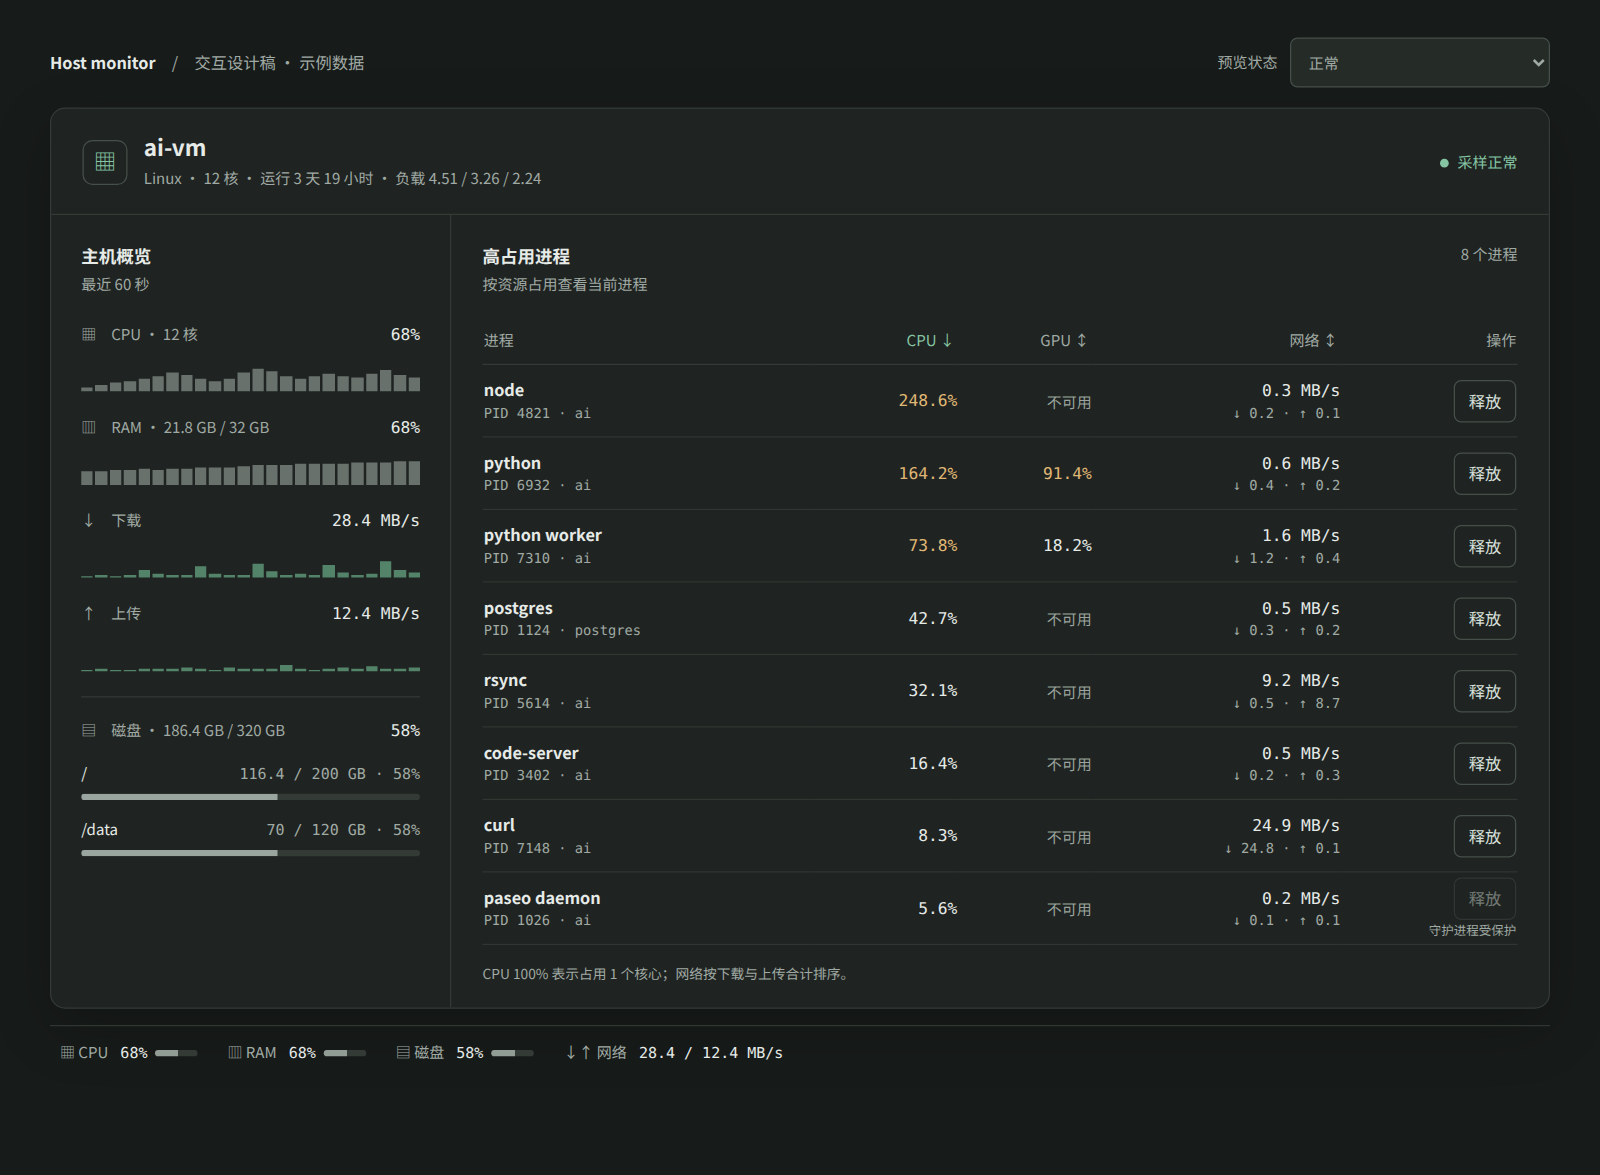
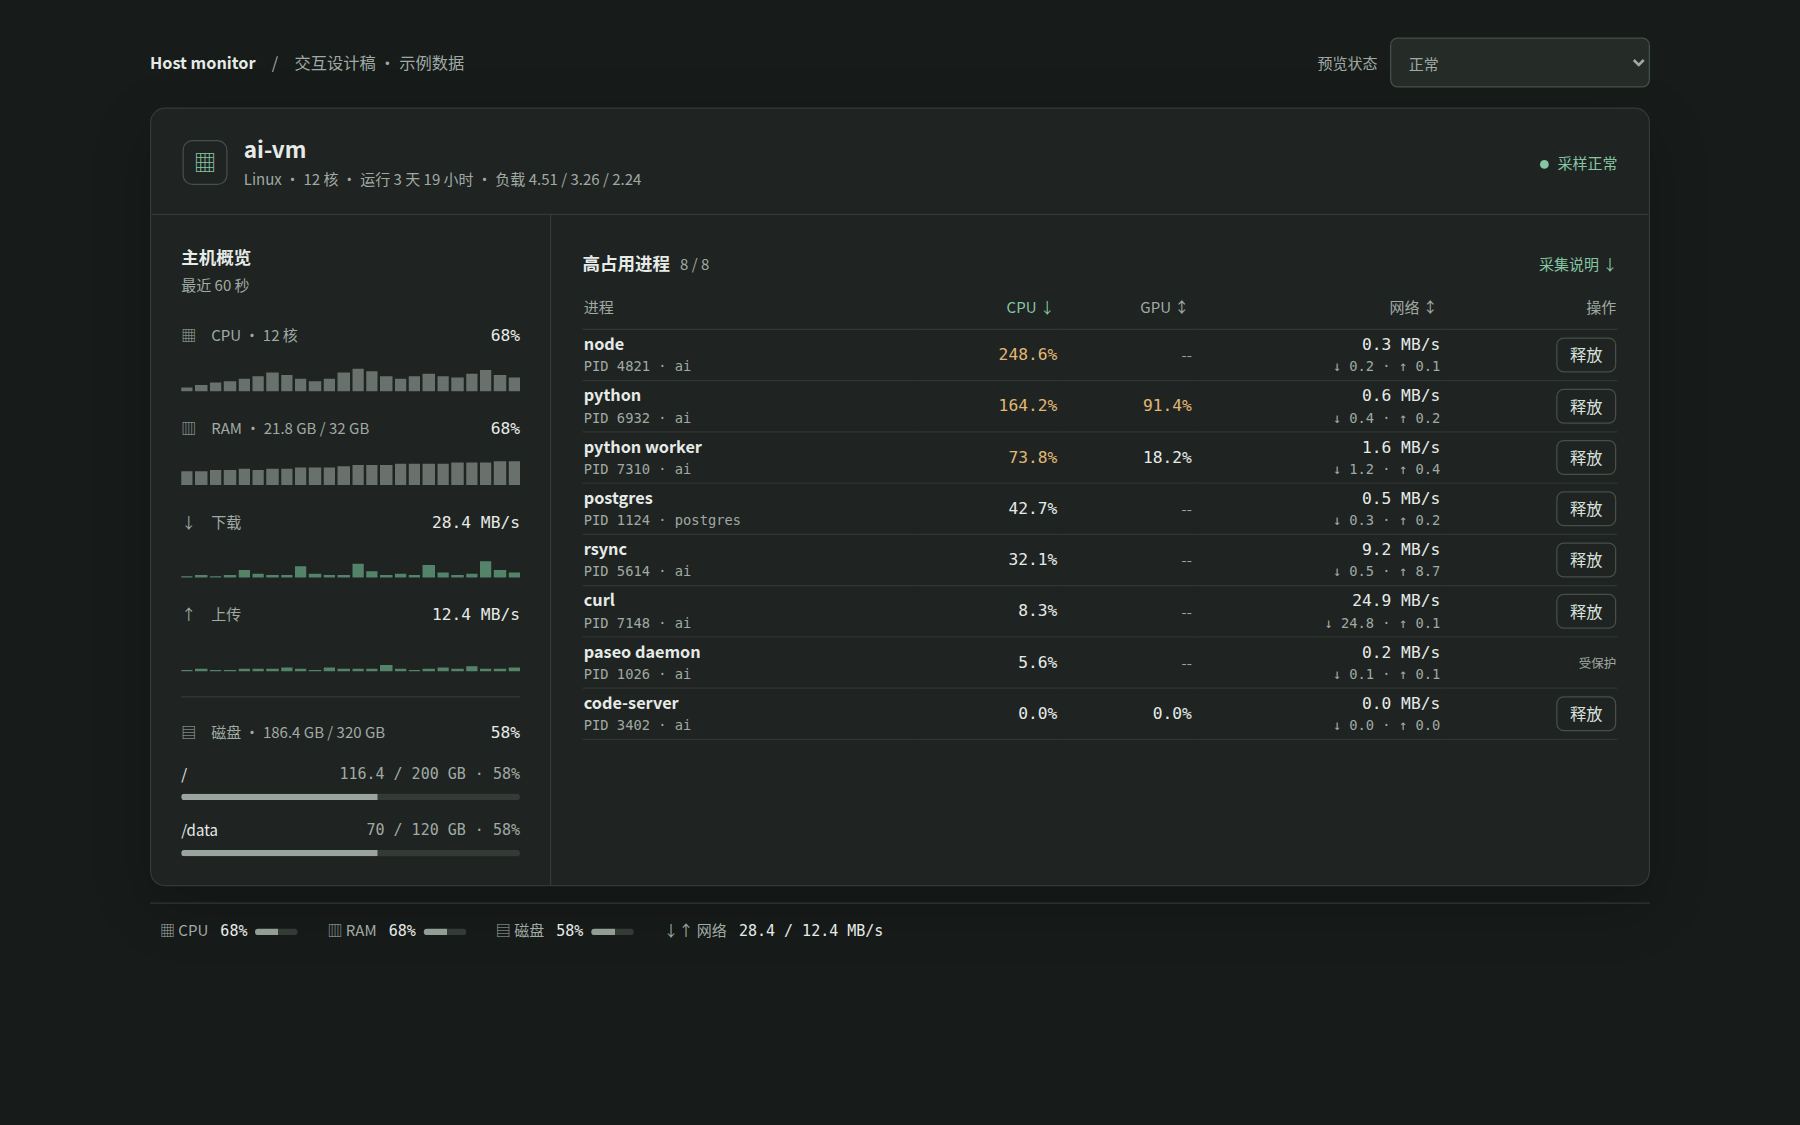
feat(design): 精简进程监控交互稿

diff --git a/designs/host-monitor/index.html b/designs/host-monitor/index.html
@@ -210,13 +210,14 @@ select{
 }
 .process-heading{
   display:flex;
-  align-items:start;
+  align-items:center;
   justify-content:space-between;
   gap:10px
 }
-.process-heading .section-caption{
-  margin-bottom:18px
-}
+.process-heading > div{display:flex;align-items:center;gap:8px}
+.details-toggle{border:0;background:none;color:var(--green);padding:6px 0;min-height:32px;font-size:12px}
+.details{padding:6px 0 10px;font-size:12px;color:var(--muted)}
+.details p{margin:3px 0}
 .count{
   font-size:12px;
   color:var(--muted);
@@ -228,7 +229,7 @@ select{
   table-layout:fixed
 }
 .table th{
-  height:37px;
+  height:32px;
   border-bottom:1px solid var(--line);
   color:var(--muted);
   font-size:12px;
@@ -266,7 +267,7 @@ select{
 .table td{
   text-align:right;
   border-bottom:1px solid #303632;
-  height:58px;
+  height:40px;
   font-size:13px
 }
 .name{
@@ -300,8 +301,8 @@ select{
   background:transparent;
   color:#d9e1dc;
   border-radius:6px;
-  padding:6px 11px;
-  min-height:34px
+  padding:3px 10px;
+  min-height:28px
 }
 .release:hover:not(:disabled){
   border-color:#bc7973;
@@ -544,7 +545,7 @@ dialog::backdrop{
   .table tr{
     position:relative;
     border-bottom:1px solid var(--line);
-    padding:14px 0
+    padding:4px 0
   }
   .table td{
     height:auto;
@@ -553,7 +554,7 @@ dialog::backdrop{
   }
   .table td:first-child{
     padding-right:90px;
-    margin-bottom:12px
+    margin-bottom:3px
   }
   .table td.resource{
     display:inline-block;
@@ -563,10 +564,10 @@ dialog::backdrop{
   }
   .table td.resource:before{
     content:attr(data-label);
-    display:block;
+    display:inline;
     font-size:11px;
     color:var(--muted);
-    margin-bottom:3px
+    margin-right:4px
   }
   .table td.action{
     position:absolute;
@@ -574,6 +575,7 @@ dialog::backdrop{
     top:10px;
     text-align:right!important
   }
+  .details-toggle{min-height:44px}
   .release{
     min-height:44px
   }
@@ -597,7 +599,7 @@ dialog::backdrop{
 }
 </style></head><body>
 <div class="preview"><div class="preview-label"><strong>Host monitor</strong>　/　交互设计稿 · 示例数据</div><label class="preview-control">预览状态 <select id="scenario"><option value="normal">正常</option><option value="gpu">GPU 未检测到 / 不支持采集</option><option value="network">网络采集权限不足</option><option value="loading">加载中</option><option value="error">采集失败</option><option value="empty">空列表</option><option value="permission">释放权限不足</option><option value="exited">进程已退出</option><option value="failed">结束失败</option></select></label></div>
-<main class="shell"><header class="host-head"><div class="host-title"><div class="host-icon" aria-hidden="true">▦</div><div><h1>ai-vm</h1><div class="sub">Linux · 12 核 · 运行 3 天 19 小时 · 负载 4.51 / 3.26 / 2.24</div></div></div><div class="status"><span class="dot"></span>采样正常</div></header><div class="tabs" role="tablist" aria-label="主机监控视图"><button role="tab" aria-selected="true" data-tab="overview">主机概览</button><button role="tab" aria-selected="false" data-tab="process">进程</button></div><div class="columns"><section class="overview" id="overview"><h2 class="section-title">主机概览</h2><p class="section-caption">最近 60 秒</p><div id="metrics"></div><div class="disk"><div class="metric-head"><span>▤　磁盘 · 186.4 GB / 320 GB</span><strong class="mono">58%</strong></div><div class="disk-row"><div class="disk-label"><span>/</span><span class="mono">116.4 / 200 GB · 58%</span></div><div class="meter"><i style="width:58%"></i></div></div><div class="disk-row"><div class="disk-label"><span>/data</span><span class="mono">70 / 120 GB · 58%</span></div><div class="meter"><i style="width:58%"></i></div></div></div></section><section class="process mobile-hidden" id="process"><div class="process-heading"><div><h2 class="section-title">高占用进程</h2><p class="section-caption">按资源占用查看当前进程</p></div><span class="count" id="count"></span></div><div id="availability" class="availability" aria-live="polite"></div><div class="mobile-sort" id="mobile-sort"><span>排序</span></div><div id="content"></div><p class="note">CPU 100% 表示占用 1 个核心；网络按下载与上传合计排序。</p><div id="toast" aria-live="polite"></div></section></div></main>
+<main class="shell"><header class="host-head"><div class="host-title"><div class="host-icon" aria-hidden="true">▦</div><div><h1>ai-vm</h1><div class="sub">Linux · 12 核 · 运行 3 天 19 小时 · 负载 4.51 / 3.26 / 2.24</div></div></div><div class="status"><span class="dot"></span>采样正常</div></header><div class="tabs" role="tablist" aria-label="主机监控视图"><button role="tab" aria-selected="true" data-tab="overview">主机概览</button><button role="tab" aria-selected="false" data-tab="process">进程</button></div><div class="columns"><section class="overview" id="overview"><h2 class="section-title">主机概览</h2><p class="section-caption">最近 60 秒</p><div id="metrics"></div><div class="disk"><div class="metric-head"><span>▤　磁盘 · 186.4 GB / 320 GB</span><strong class="mono">58%</strong></div><div class="disk-row"><div class="disk-label"><span>/</span><span class="mono">116.4 / 200 GB · 58%</span></div><div class="meter"><i style="width:58%"></i></div></div><div class="disk-row"><div class="disk-label"><span>/data</span><span class="mono">70 / 120 GB · 58%</span></div><div class="meter"><i style="width:58%"></i></div></div></div></section><section class="process mobile-hidden" id="process"><div class="process-heading"><div><h2 class="section-title">高占用进程</h2><span class="count" id="count"></span></div><button class="details-toggle" id="details-toggle" aria-expanded="false" aria-controls="collection-details">采集说明 ↓</button></div><div class="details" id="collection-details" hidden><p>-- 表示数据不可用。CPU 100% 表示占用 1 个核心；网络为可归属的可见 TCP 持续连接上下行总速率，不含 UDP 和短连接。</p><div id="availability" class="availability" aria-live="polite"></div><p id="protection-details"></p></div><div class="mobile-sort" id="mobile-sort"><span>排序</span></div><div id="content"></div><div id="toast" aria-live="polite"></div></section></div></main>
 <div class="anchor" aria-label="主机状态摘要"><span>▦ CPU <b class="mono">68%</b><i class="tiny-meter"></i></span><span>▥ RAM <b class="mono">68%</b><i class="tiny-meter"></i></span><span>▤ 磁盘 <b class="mono">58%</b><i class="tiny-meter"></i></span><span>↓↑ 网络 <b class="mono">28.4 / 12.4 MB/s</b></span></div>
 <dialog id="confirm" aria-labelledby="dialog-title"><div class="dialog-body"><h2 id="dialog-title">结束进程并释放资源？</h2><p class="warning">将中断该进程正在执行的任务，未保存的数据可能丢失。</p><div class="detail" id="details"></div><p class="dialog-error" id="dialog-error" role="alert" hidden></p></div><div class="dialog-actions"><button class="cancel" id="cancel" autofocus>取消</button><button class="danger" id="submit">结束进程</button></div></dialog>
 <script>
@@ -608,7 +610,7 @@ const initial=[
 {name:'rsync',pid:5614,user:'ai',cmd:'rsync -av /data/models/ backup:/models/',cpu:32.1,gpu:null,down:.5,up:8.7},
 {name:'postgres',pid:1124,user:'postgres',cmd:'/usr/lib/postgresql/16/bin/postgres -D /var/lib/postgresql/16/main',cpu:42.7,gpu:null,down:.3,up:.2},
 {name:'paseo daemon',pid:1026,user:'ai',cmd:'paseo daemon start',cpu:5.6,gpu:null,down:.1,up:.1,protected:true},
-{name:'code-server',pid:3402,user:'ai',cmd:'code-server --bind-addr 127.0.0.1:8080 /workspace',cpu:16.4,gpu:null,down:.2,up:.3},
+{name:'code-server',pid:3402,user:'ai',cmd:'code-server --bind-addr 127.0.0.1:8080 /workspace',cpu:0,gpu:0,down:0,up:0},
 {name:'python worker',pid:7310,user:'ai',cmd:'python worker.py --queue inference',cpu:73.8,gpu:18.2,down:1.2,up:.4}];
 let processes=initial.map(p=>({...p})),sortKey='cpu',direction='desc',selected=null,opener=null,pending=false;
 const $=id=>document.getElementById(id),scenario=$('scenario');
@@ -647,22 +649,24 @@ function sortButton(key,label){
   return `<button class="sort ${sortKey===key?'active':''}" data-sort="${key}" ${unavailable?'disabled title="该资源未采集"':''}>${label} ${sortKey===key?(direction==='desc'?'↓':'↑'):'↕'}</button>`}
 
 function format(v,suffix){
-  return v==null?'<span class="na">不可用</span>':`<span class="mono value ${v>=70?'high':''}">${v.toFixed(1)}${suffix}</span>`}
+  return v==null?'<span class="na">--</span>':`<span class="mono value ${v>=70?'high':''}">${v.toFixed(1)}${suffix}</span>`}
 
 function render(){
   const state=scenario.value,content=$('content'),mobile=$('mobile-sort');
   $('availability').textContent=state==='gpu'?'GPU 未检测到或不支持进程采集。':state==='network'?'网络进程采集权限不足。':'';
   mobile.innerHTML='<span>排序</span>'+[['cpu','CPU'],['gpu','GPU'],['network','网络']].map(([k,l])=>sortButton(k,l)).join('');
-  $('count').textContent=(state==='empty'?0:processes.length)+' 个进程';
+  $('count').textContent=(state==='empty'?0:processes.length)+' / '+(state==='empty'?0:processes.length);
+  $('protection-details').textContent=processes.filter(p=>p.protected).map(p=>`PID ${p.pid} · ${p.name}：守护进程受保护`).join('；');
 if(state==='loading'||state==='error'||state==='empty'){content.innerHTML=state==='loading'?'<div class="message"><strong>正在采集进程数据</strong><span>请稍候</span></div>':state==='error'?'<div class="message"><strong>进程采集失败</strong><span>暂时无法获取进程数据</span><button class="retry" id="retry">重试</button></div>':'<div class="message"><strong>暂无进程数据</strong><span>当前没有可显示的进程</span></div>';
   if($('retry'))$('retry').onclick=()=>{scenario.value='normal';
   render()};
   return}
 const rows=sorted(processes,sortKey,direction).map(p=>{
   const net=value(p,'network');
-  return `<tr><td><div class="name">${esc(p.name)}</div><div class="identity mono">PID ${p.pid} · ${esc(p.user)}</div></td><td class="resource" data-label="CPU">${format(value(p,'cpu'),'%')}</td><td class="resource" data-label="GPU">${format(value(p,'gpu'),'%')}</td><td class="resource" data-label="网络">${format(net,' MB/s')}${net==null?'':`<div class="network-detail mono">↓ ${p.down.toFixed(1)} · ↑ ${p.up.toFixed(1)}</div>`}</td><td class="action"><button class="release" data-pid="${p.pid}" ${p.protected?'disabled aria-label="守护进程受保护"':''}>释放</button>${p.protected?'<span class="protected">守护进程受保护</span>':''}</td></tr>`}).join('');
+  return `<tr><td><div class="name">${esc(p.name)}</div><div class="identity mono">PID ${p.pid} · ${esc(p.user)}</div></td><td class="resource" data-label="CPU">${format(value(p,'cpu'),'%')}</td><td class="resource" data-label="GPU">${format(value(p,'gpu'),'%')}</td><td class="resource" data-label="网络">${format(net,' MB/s')}${net==null?'':`<div class="network-detail mono">↓ ${p.down.toFixed(1)} · ↑ ${p.up.toFixed(1)}</div>`}</td><td class="action">${p.protected?'<span class="protected">受保护</span>':`<button class="release" data-pid="${p.pid}">释放</button>`}</td></tr>`}).join('');
   const aria=k=>sortKey===k?(direction==='desc'?'descending':'ascending'):'none';
   content.innerHTML=`<table class="table"><thead><tr><th scope="col">进程</th><th scope="col" aria-sort="${aria('cpu')}">${sortButton('cpu','CPU')}</th><th scope="col" aria-sort="${aria('gpu')}">${sortButton('gpu','GPU')}</th><th scope="col" aria-sort="${aria('network')}">${sortButton('network','网络')}</th><th scope="col">操作</th></tr></thead><tbody>${rows}</tbody></table>`}
+$('details-toggle').onclick=()=>{const details=$('collection-details');details.hidden=!details.hidden;$('details-toggle').setAttribute('aria-expanded',String(!details.hidden));$('details-toggle').textContent=`采集说明 ${details.hidden?'↓':'↑'}`};
 document.addEventListener('click',e=>{
   const button=e.target.closest('[data-sort]');
   if(button)sortBy(button.dataset.sort, button.closest('#mobile-sort') || $('content'));
@@ -673,7 +677,7 @@ document.addEventListener('click',e=>{
   selected=p;
   opener=release;
   $('dialog-error').hidden=true;
-  $('details').innerHTML=`<div class="detail-row"><span>进程</span><strong>${esc(p.name)} · PID ${p.pid}</strong></div><div class="detail-row"><span>用户</span><span>${esc(p.user)}</span></div><div class="detail-row"><span>命令</span><span class="mono command">${esc(p.cmd)}</span></div><div class="detail-row"><span>资源</span><span>CPU ${p.cpu.toFixed(1)}% · GPU ${value(p,'gpu')==null?'不可用':p.gpu.toFixed(1)+'%'} · 网络 ${value(p,'network')==null?'不可用':value(p,'network').toFixed(1)+' MB/s'}</span></div>`;
+  $('details').innerHTML=`<div class="detail-row"><span>进程</span><strong>${esc(p.name)} · PID ${p.pid}</strong></div><div class="detail-row"><span>用户</span><span>${esc(p.user)}</span></div><div class="detail-row"><span>命令</span><span class="mono command">${esc(p.cmd)}</span></div><div class="detail-row"><span>资源</span><span>CPU ${p.cpu==null?'--':p.cpu.toFixed(1)+'%'} · GPU ${value(p,'gpu')==null?'--':p.gpu.toFixed(1)+'%'} · 网络 ${value(p,'network')==null?'--':value(p,'network').toFixed(1)+' MB/s'}</span></div>`;
   $('confirm').showModal()});
 scenario.addEventListener('change',()=>{
   const focusedSort = document.activeElement.matches('[data-sort]') ? document.activeElement : null;

diff --git a/designs/host-monitor/README.md b/designs/host-monitor/README.md
@@ -6,6 +6,8 @@
 
 官方 `openPopover` 宽屏为锚定弹层，compact 模式为底部抽屉。本设计桌面左侧展示主机概览和磁盘分区，右侧展示高占用进程；窄屏通过“主机概览 / 进程”切换，可置于底部抽屉。CPU、GPU、网络列均可切换升降序；网络按下载与上传合计排序，CPU 100% 代表一个核心。不可用数据始终排在最后，同值按 PID 排序。GPU 或网络不可用时，进程区说明原因并禁用对应排序，CPU 仍可排序。预览状态选择器可查看采集和释放异常。
 
+进程表采用紧凑行布局；“采集说明”默认收起，展开后查看缺测说明和保护原因。
+
 “释放”表示结束进程，可能中断任务并丢失未保存数据；示例仅模拟操作。守护进程受保护，不能释放。确认框支持取消、Esc 和失败重试；示例进程已退出时移除该行，提示无需重复结束。浏览器控制台可运行 `hostMonitorSelfCheck()`，检查升降序、不可用值排序与受保护进程；断言失败会抛错。
 
 实际实现必须校验操作权限和进程身份，避免 PID 重用导致误杀；GPU 信息受驱动及平台能力限制，进程网络归因也依赖平台和权限，不保证所有环境均可采集。
